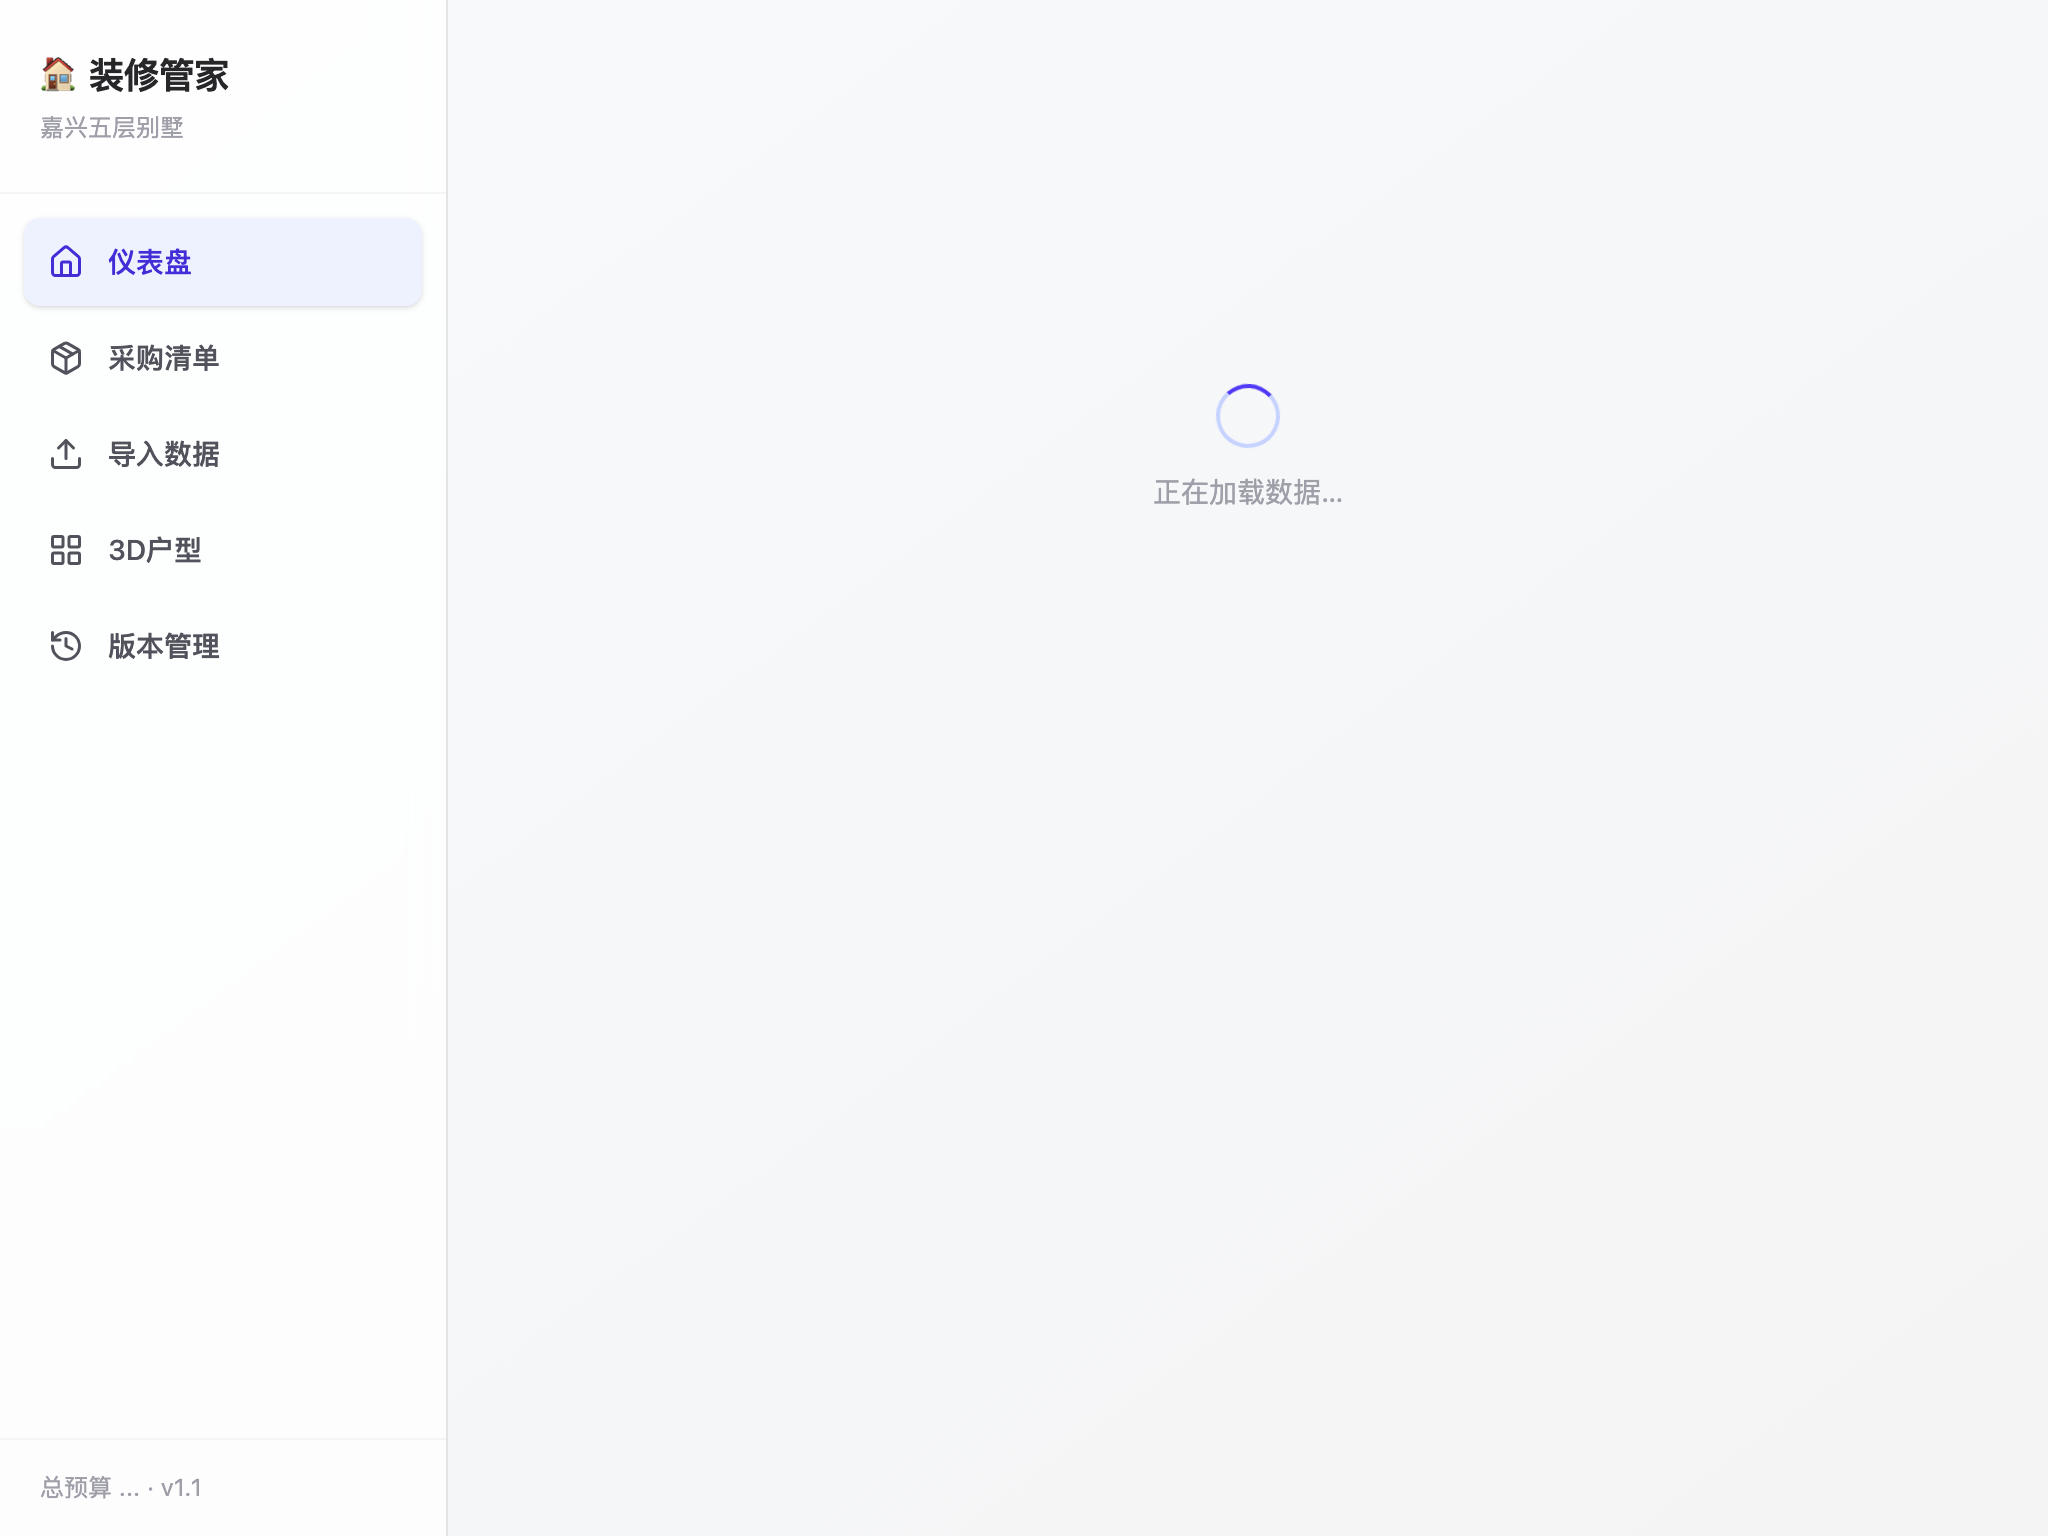
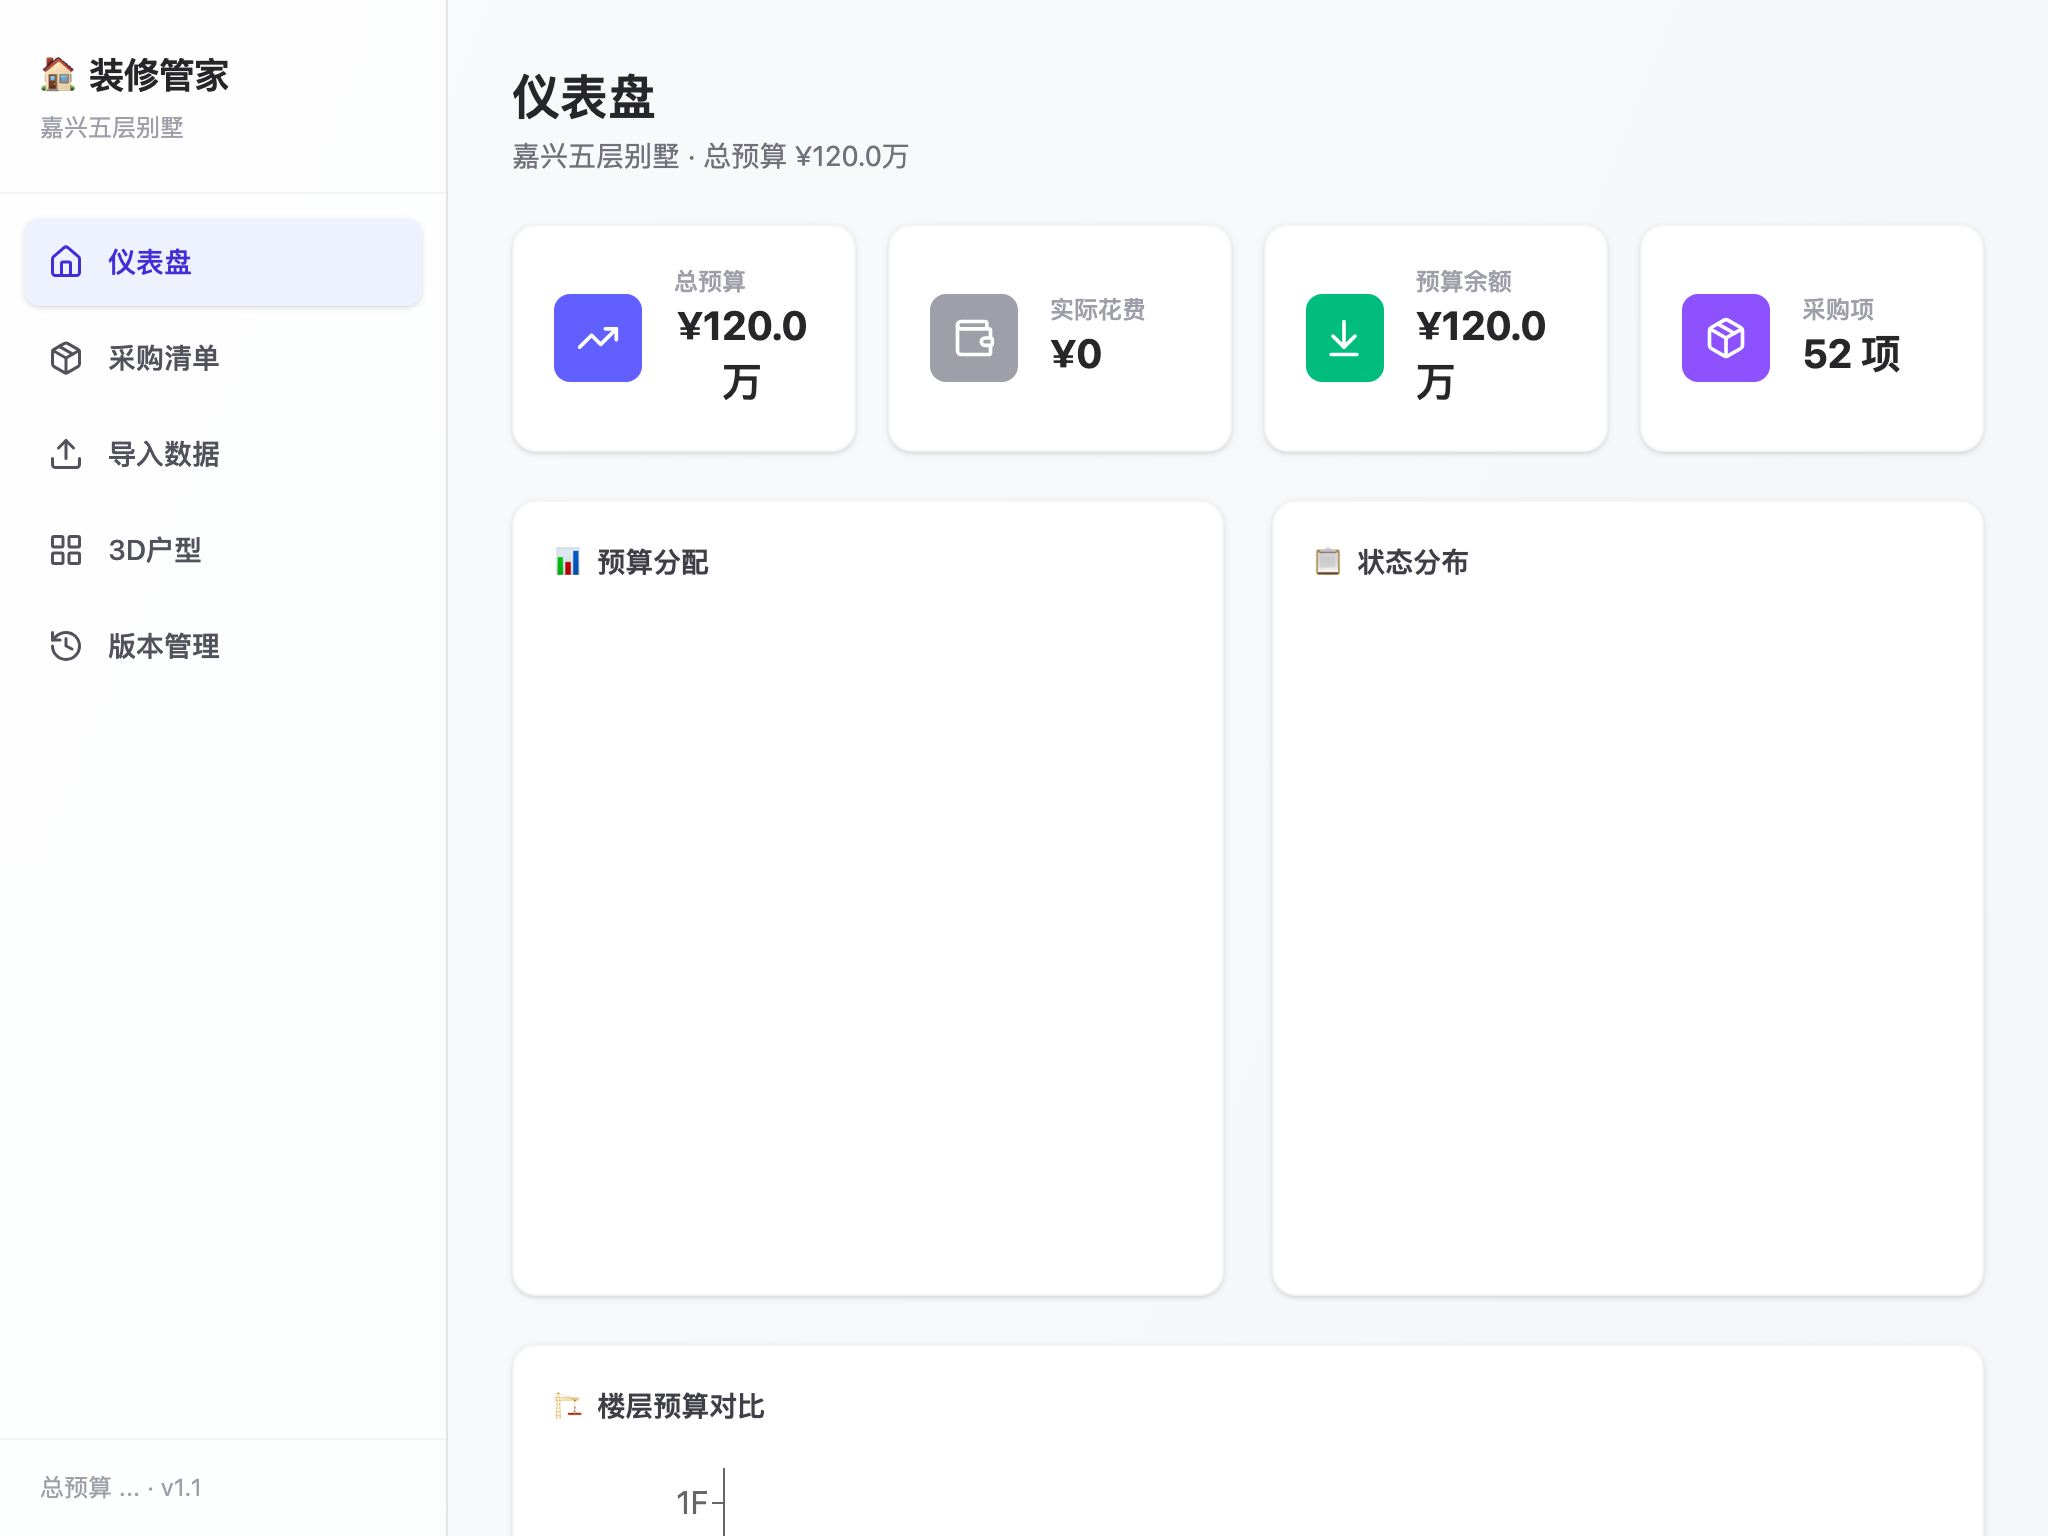
fix: Service Worker v4 — 根治 UI 一段时间后自动崩坏
根因: SW v3 把 SPA路由(/items,/import等)当静态资源缓存
      服务器对/items返回 index.html(SPA fallback)
      SW缓存这份HTML → 下次访问返回旧HTML
      旧HTML引用已删除的JS → 白屏 / UI全崩

修复: Service Worker v4
- 只缓存 /assets/* 和静态资源文件(.png/.glb等)
- HTML / SPA路由 / 其他全部走网络优先(不缓存)
- 旧缓存自动清理
- SW更新检测从每小时→每10分钟
- 新版本检测到立即自动刷新页面

diff --git a/frontend/public/sw.js b/frontend/public/sw.js
@@ -1,65 +1,62 @@
-// 装修管家 — Service Worker
-// 策略：HTML 网络优先（确保最新），静态资源缓存优先（有hash不变），API 不缓存
+// 装修管家 — Service Worker v4
+// 策略：/assets/* 缓存优先（hash不变），其他全部网络优先
+// 修复：SPA路由不再被缓存，始终拉最新HTML
 
-const CACHE_NAME = 'house-v3';
-const STATIC_CACHE = 'house-static-v3';
+const ASSETS_CACHE = 'house-assets-v4';
 
-// 哪些路径走网络优先（HTML 类）
-const NETWORK_FIRST = ['/', '/index.html', '/manifest.json'];
+// ═══ 哪些是静态资源（有hash，可缓存） ═══
+function isStaticAsset(url) {
+  const path = url.pathname
+  return path.startsWith('/assets/')    // Vite 构建产物
+      || path.endsWith('.png')          // 图标
+      || path.endsWith('.svg')
+      || path.endsWith('.glb')          // 3D模型
+      || path.endsWith('.ico')
+}
 
 self.addEventListener('install', () => {
-  self.skipWaiting();
-});
+  self.skipWaiting()
+})
 
 self.addEventListener('activate', (event) => {
   event.waitUntil(
-    caches.keys().then((names) => {
-      return Promise.all(
-        names.filter((n) => n !== CACHE_NAME && n !== STATIC_CACHE).map((n) => caches.delete(n))
-      );
-    }).then(() => self.clients.claim())
-  );
-});
+    caches.keys().then(names => Promise.all(
+      names.filter(n => n !== ASSETS_CACHE).map(n => caches.delete(n))
+    )).then(() => self.clients.claim())
+  )
+})
 
 self.addEventListener('fetch', (event) => {
-  const url = new URL(event.request.url);
+  const url = new URL(event.request.url)
 
-  // API 请求 — 永远不缓存
-  if (url.pathname.startsWith('/api/')) {
-    return;
-  }
+  // API — 永不缓存
+  if (url.pathname.startsWith('/api/')) return
 
-  // HTML / 根路径 — 网络优先，离线时回退缓存
-  if (NETWORK_FIRST.some(p => url.pathname === p)) {
+  // 静态资源 — 缓存优先
+  if (isStaticAsset(url)) {
     event.respondWith(
-      fetch(event.request)
-        .then((response) => {
-          // 更新缓存为最新版本
-          const cloned = response.clone();
-          caches.open(CACHE_NAME).then((cache) => cache.put(event.request, cloned));
-          return response;
+      caches.match(event.request).then(cached => {
+        if (cached) return cached
+        return fetch(event.request).then(response => {
+          const clone = response.clone()
+          caches.open(ASSETS_CACHE).then(cache => cache.put(event.request, clone))
+          return response
         })
-        .catch(() => caches.match(event.request)) // 离线回退
-    );
-    return;
+      })
+    )
+    return
   }
 
-  // 静态资源（JS/CSS/图片） — 缓存优先（有 hash，文件名不变则内容不变）
+  // HTML / SPA路由 / manifest / sw.js / 其他 — 网络优先
   event.respondWith(
-    caches.match(event.request).then((cached) => {
-      if (cached) return cached;
-      return fetch(event.request).then((response) => {
-        const cloned = response.clone();
-        caches.open(STATIC_CACHE).then((cache) => cache.put(event.request, cloned));
-        return response;
-      });
-    })
-  );
-});
+    fetch(event.request)
+      .catch(() => caches.match(event.request)) // 离线回退
+  )
+})
 
-// 检测到新 SW 版本 → 通知页面刷新
+// 收到更新通知 → 立即激活
 self.addEventListener('message', (event) => {
   if (event.data === 'skipWaiting') {
-    self.skipWaiting();
+    self.skipWaiting()
   }
-});
+})

diff --git a/frontend/src/main.jsx b/frontend/src/main.jsx
@@ -9,26 +9,39 @@ createRoot(document.getElementById('root')).render(
   </StrictMode>,
 )
 
-// 注册 Service Worker，检测到新版本自动刷新
+// ═══ Service Worker v4 — 自动更新 + 清理旧缓存 ═══
 if ('serviceWorker' in navigator) {
-  navigator.serviceWorker.register('/sw.js').then((registration) => {
-    // 发现新版本 → 自动刷新，用户无感知
-    registration.addEventListener('updatefound', () => {
-      const newWorker = registration.installing;
-      if (!newWorker) return;
-      newWorker.addEventListener('statechange', () => {
-        if (newWorker.state === 'installed' && navigator.serviceWorker.controller) {
-          // 新 SW 已就绪，刷新页面
-          window.location.reload();
-        }
-      });
-    });
-  });
-
-  // 定期检查更新（每小时）
-  setInterval(() => {
-    navigator.serviceWorker.getRegistration().then((reg) => {
-      if (reg) reg.update();
-    });
-  }, 60 * 60 * 1000);
+  async function registerSW() {
+    try {
+      // 先注销所有旧 SW（清理 v1/v2/v3 残留）
+      const oldRegs = await navigator.serviceWorker.getRegistrations()
+      for (const reg of oldRegs) {
+        if (reg.active && !reg.active.scriptURL.includes('sw.js')) continue
+      }
+      
+      const registration = await navigator.serviceWorker.register('/sw.js')
+      
+      // 发现新版本 → 立即激活 → 刷新页面
+      registration.addEventListener('updatefound', () => {
+        const newWorker = registration.installing
+        if (!newWorker) return
+        newWorker.addEventListener('statechange', () => {
+          if (newWorker.state === 'installed' && navigator.serviceWorker.controller) {
+            console.log('[SW] 新版本已安装，刷新页面…')
+            window.location.reload()
+          }
+        })
+      })
+      
+      // 定期检查更新
+      setInterval(() => {
+        registration.update().catch(() => {})
+      }, 10 * 60 * 1000) // 每10分钟
+      
+    } catch (e) {
+      console.warn('[SW] 注册失败:', e.message)
+    }
+  }
+  
+  registerSW()
 }